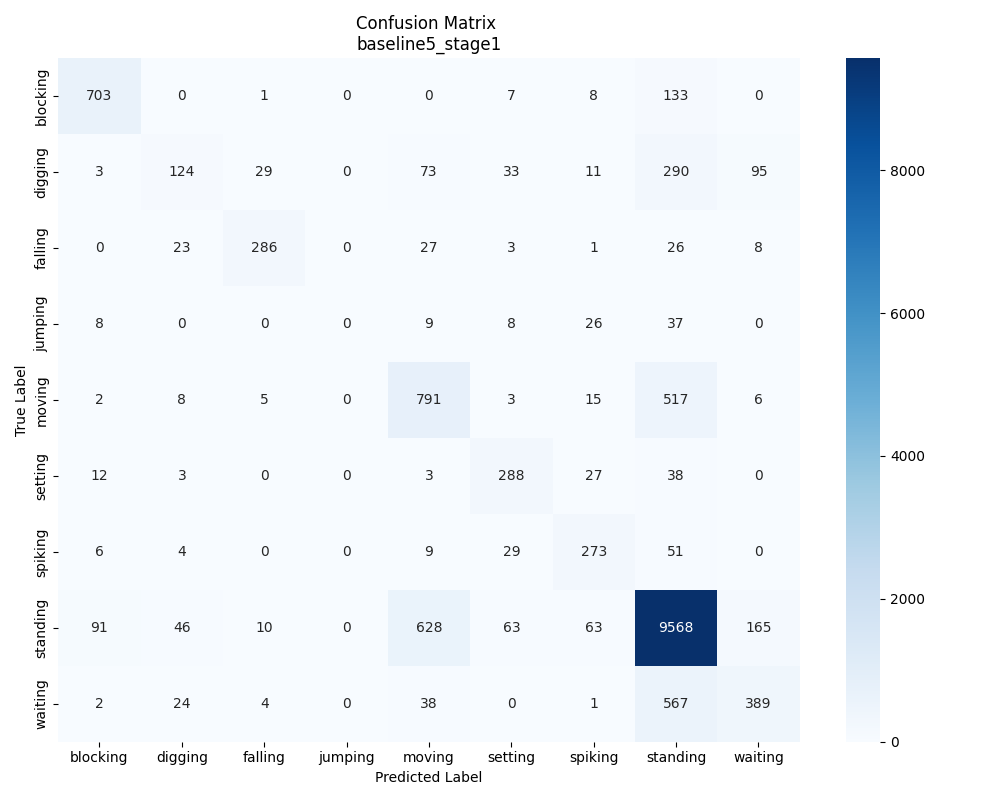
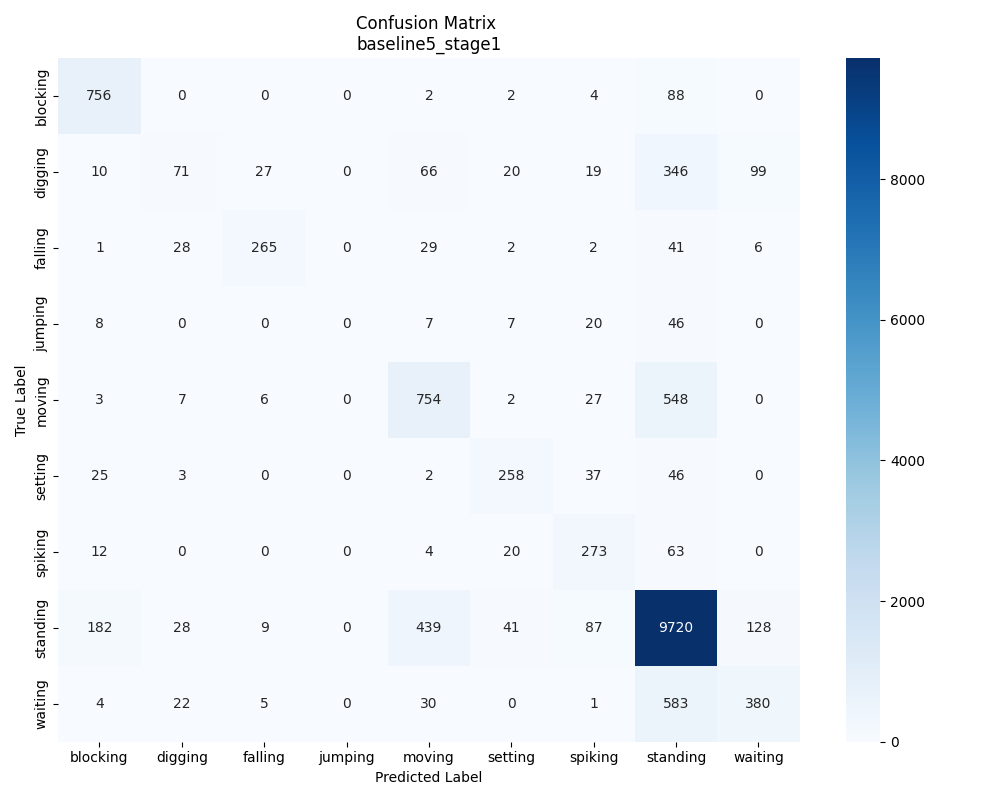
fixes

diff --git a/modeling/b5/model.py b/modeling/b5/model.py
@@ -16,6 +16,7 @@ class Baseline5_stg1(nn.Module):
             num_layers=cfg.lstm_layers,
             batch_first=True,
         )
+        self.lstm_norm = nn.LayerNorm(cfg.hidden_size)  # stable scale for stage-2 features
 
         self.fc = nn.Sequential(
             nn.Linear(cfg.hidden_size, 512),
@@ -31,6 +32,7 @@ class Baseline5_stg1(nn.Module):
         x = self.backbone(x).flatten(1)           # (B*9, 2048)
         x = x.view(b, seq, -1)                    # (B, 9, 2048)
         x, _ = self.lstm(x)                       # (B, 9, hidden_size)
+        x = self.lstm_norm(x)                     # stable scale for downstream
         x = x[:, -1, :]                           # (B, hidden_size)
         x = self.fc(x)                            # (B, num_classes)
         return x
